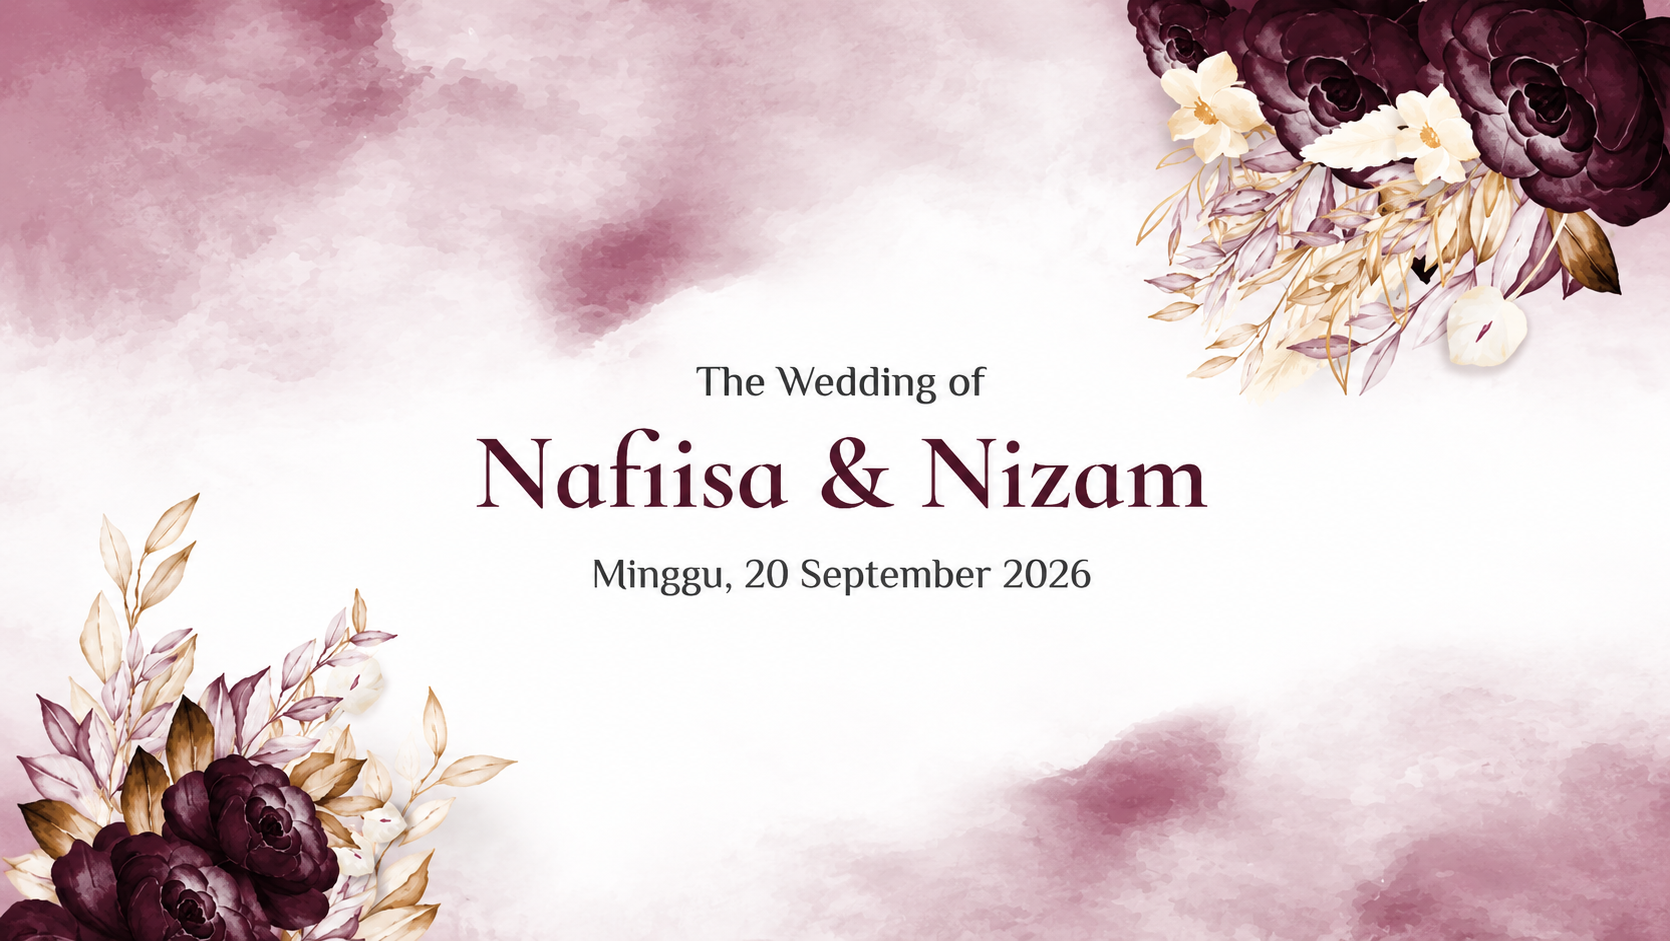
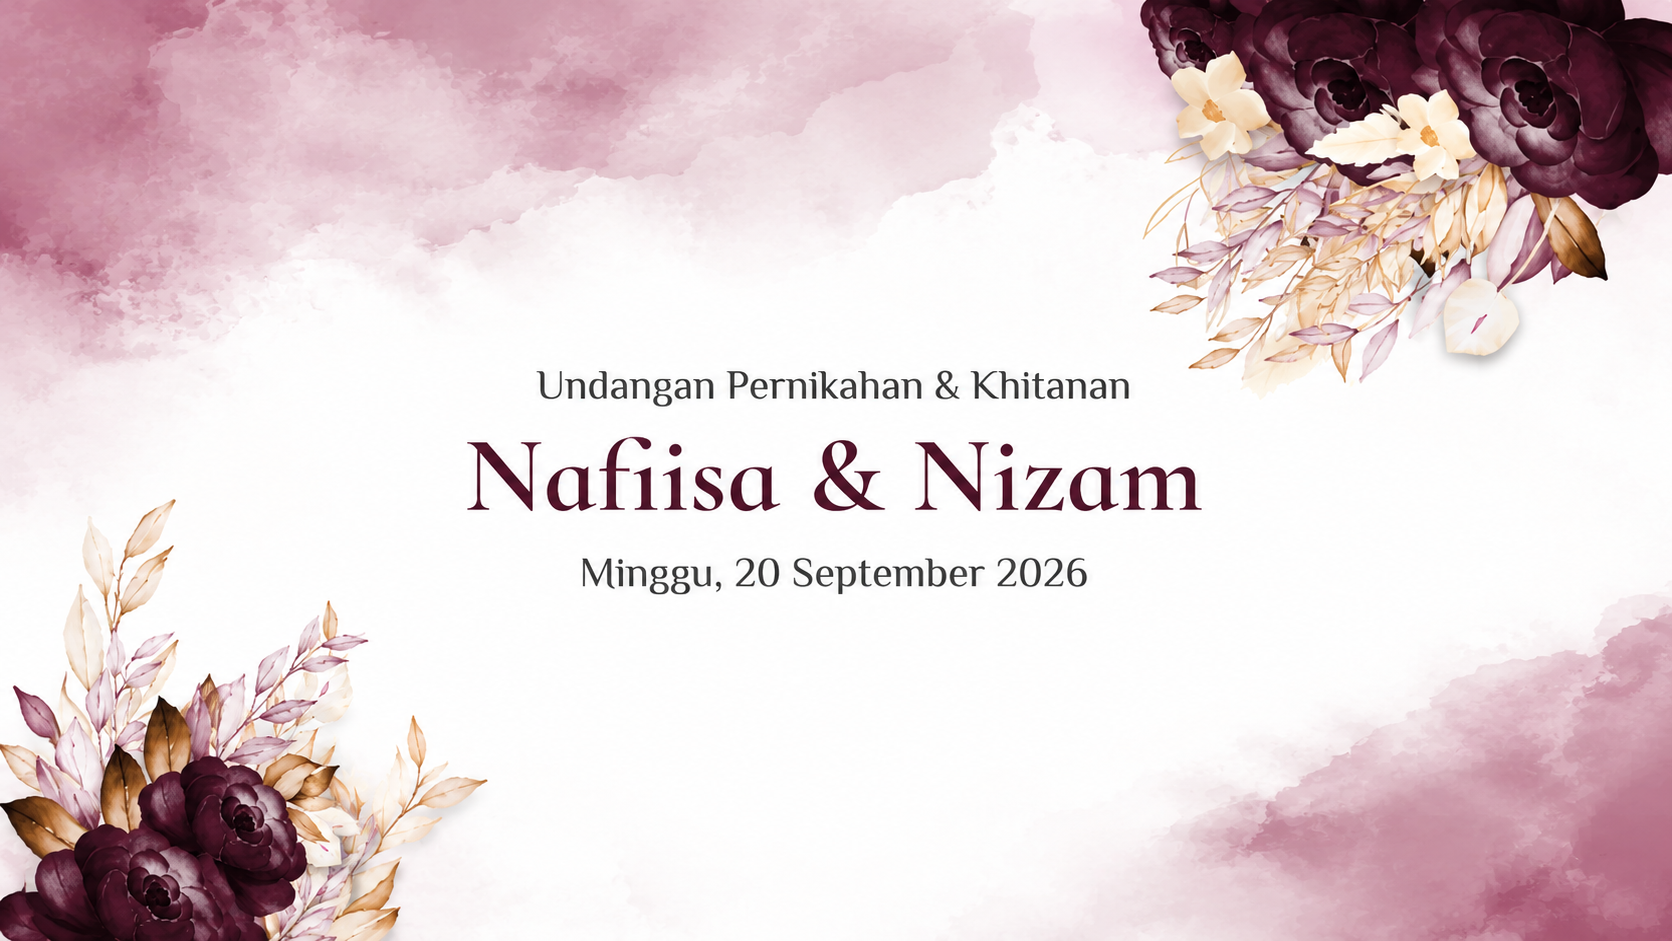
Update thumbnail 1.png and apply cache-busting version parameter for WhatsApp preview

diff --git a/index.html b/index.html
@@ -16,8 +16,8 @@
   <meta property="og:site_name" content="Digital Wedding Invitation">
   <meta property="article:section" content="Undangan Pernikahan">
   <meta property="og:updated_time" content="2025-06-10T12:59:00+07:00">
-  <meta property="og:image" content="https://kirimdigi.github.io/Nafiisa-Nizam/1.png">
-  <meta property="og:image:secure_url" content="https://kirimdigi.github.io/Nafiisa-Nizam/1.png">
+  <meta property="og:image" content="https://kirimdigi.github.io/Nafiisa-Nizam/1.png?v=1.1">
+  <meta property="og:image:secure_url" content="https://kirimdigi.github.io/Nafiisa-Nizam/1.png?v=1.1">
   <meta property="og:image:width" content="800">
   <meta property="og:image:height" content="800">
   <meta property="og:image:alt" content="Nafiisa &#038; Nizam">
@@ -28,7 +28,7 @@
   <meta name="twitter:title" content="The Wedding Of Nafiisa &amp; Nizam">
   <meta name="twitter:description"
     content="Spesial untuk Anda, hadiri acara pernikahan Nafiisa &amp; Nizam pada hari Minggu, 20 September 2026. Ya!">
-  <meta name="twitter:image" content="https://kirimdigi.github.io/Nafiisa-Nizam/1.png">
+  <meta name="twitter:image" content="https://kirimdigi.github.io/Nafiisa-Nizam/1.png?v=1.1">
   <meta name="twitter:label1" content="Ditulis oleh">
   <meta name="twitter:data1" content="kekondangan">
   <meta name="twitter:label2" content="Waktunya membaca">
